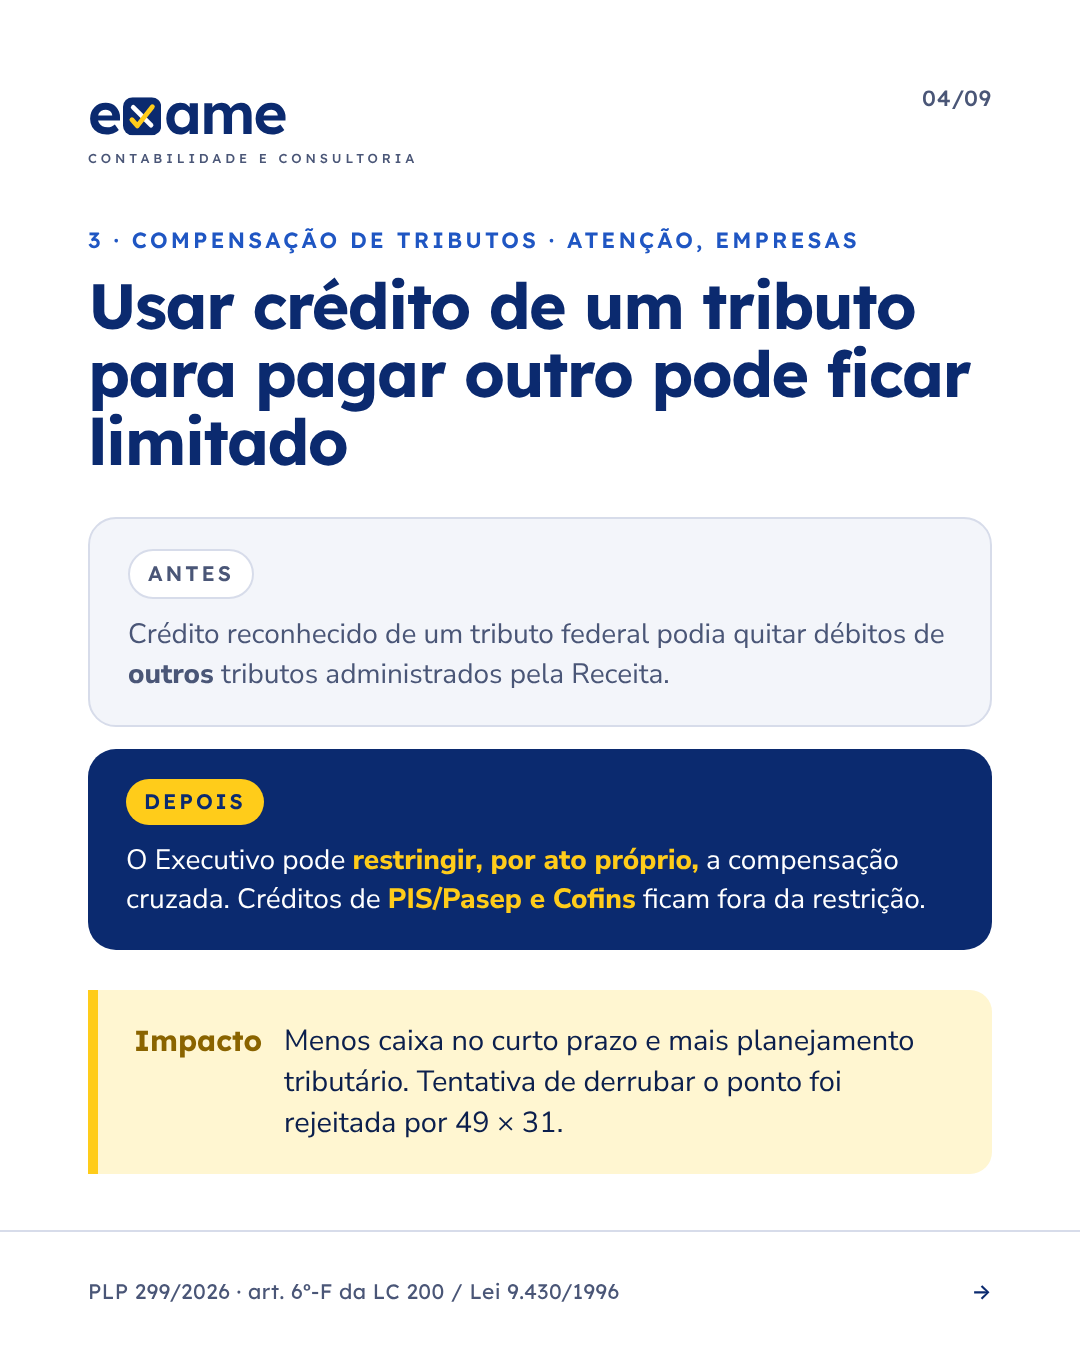
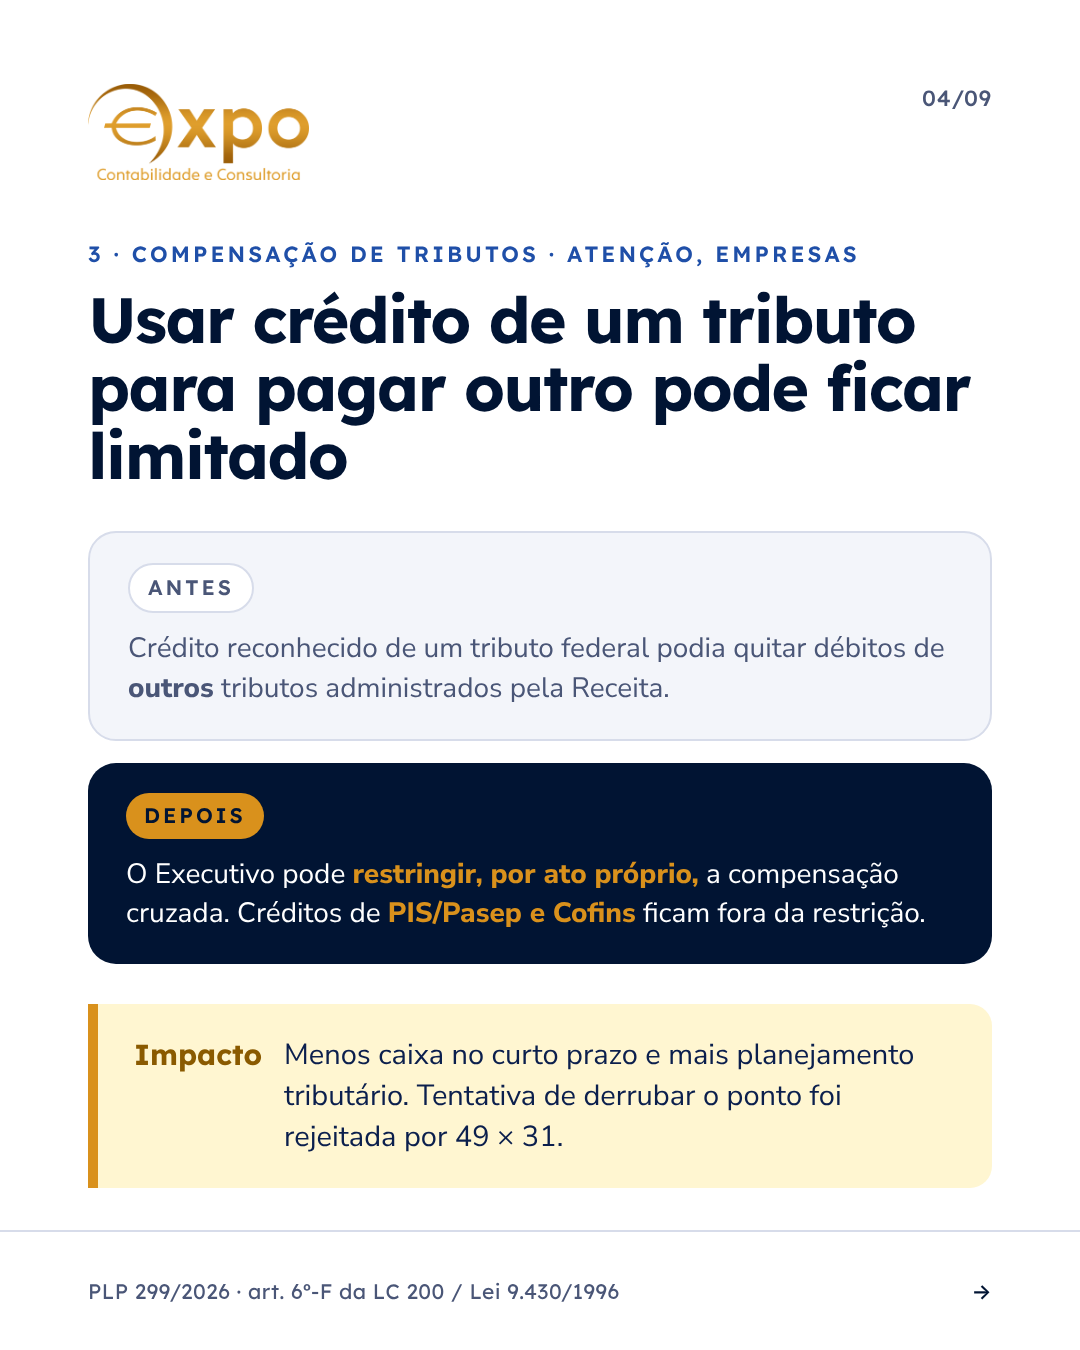
Rebrand PLP 299 carousel to Expo Contabilidade; fix brand memory
Claude-Session: https://claude.ai/code/session_018tdQqqmBqZ8MuiPkjS6HcL

Changed region(s): [[0.0611, 0.4044, 0.9167, 0.9022], [0.0611, 0.0622, 0.9167, 0.3733], [0.0611, 0.1556, 0.0917, 0.1867]]

diff --git a/posts/plp-299/carrossel.html b/posts/plp-299/carrossel.html
@@ -2,13 +2,13 @@
 <html lang="pt-BR">
 <head>
 <meta charset="utf-8">
-<title>Carrossel PLP 299</title>
+<title>Carrossel PLP 299 — Expo</title>
 <link rel="preconnect" href="https://fonts.googleapis.com">
 <link rel="stylesheet" href="https://fonts.googleapis.com/css2?family=Lexend:wght@400;500;600;700&family=Nunito+Sans:wght@400;600;700;800&display=swap">
 <style>
 :root{
   --paper:#FFFFFF; --ink:#0B1F4D; --muted:#4A5677; --line:#D7DCEA;
-  --navy:#0B2A6F; --yellow:#FFCC1A; --accent:#1F56C3; --brass:#8A6400; --cream:#FFF6D1;
+  --navy:#011433; --yellow:#D9911C; --accent:#1F4FA8; --brass:#8A5A00; --cream:#FFF6D1;
   --display:"Lexend",system-ui,sans-serif; --body:"Nunito Sans",system-ui,sans-serif;
 }
 *{box-sizing:border-box}
@@ -17,7 +17,8 @@ body{margin:0;background:#e9ecf3;font-family:var(--body);color:var(--ink)}
 .slide.dark{background:var(--navy);color:#fff}
 
 /* Logo */
-.logo{display:flex;flex-direction:column;gap:8px}
+.logo{display:flex}
+.logo img{height:96px;width:auto;display:block}
 .word{display:inline-flex;align-items:baseline;font-family:var(--display);font-weight:600;letter-spacing:-.03em;line-height:1;color:var(--navy);font-size:58px}
 .word svg{height:.66em;width:.66em;margin:0 .05em;transform:translateY(.02em)}
 .sub{font-family:var(--display);font-weight:500;font-size:13px;letter-spacing:.3em;text-transform:uppercase;color:var(--muted)}
@@ -98,12 +99,11 @@ h2{font-size:64px;color:var(--navy)}
 </head>
 <body>
 
-<template id="logo"><div class="logo"><span class="word" aria-label="exame">e<svg viewBox="0 0 56 56" aria-hidden="true"><rect width="56" height="56" rx="14" fill="#0B2A6F"/><path d="M15 15 L41 41" stroke="#FFFFFF" stroke-width="7" stroke-linecap="round"/><path d="M13 33 L21 42 L43 14" fill="none" stroke="#FFCC1A" stroke-width="7" stroke-linecap="round" stroke-linejoin="round"/></svg>ame</span><span class="sub">Contabilidade e Consultoria</span></div></template>
-<template id="logo-dark"><div class="logo"><span class="word" aria-label="exame">e<svg viewBox="0 0 56 56" aria-hidden="true"><rect width="56" height="56" rx="14" fill="#FFFFFF"/><path d="M15 15 L41 41" stroke="#0B2A6F" stroke-width="7" stroke-linecap="round"/><path d="M13 33 L21 42 L43 14" fill="none" stroke="#FFCC1A" stroke-width="7" stroke-linecap="round" stroke-linejoin="round"/></svg>ame</span><span class="sub">Contabilidade e Consultoria</span></div></template>
+<template id="logo"><div class="logo"><img src="marca/logo-expo.png" alt="Expo Contabilidade e Consultoria"></div></template>
+<template id="logo-dark"><div class="logo"><img src="marca/logo-expo.png" alt="Expo Contabilidade e Consultoria"></div></template>
 
 <!-- 1 CAPA -->
 <section class="slide dark cover">
-  <svg class="deco" viewBox="0 0 56 56"><rect width="56" height="56" rx="14" fill="#fff"/></svg>
   <div class="top"><div data-logo="dark"></div><span class="count">01/09</span></div>
   <h1>Ajuste fiscal:<br>o que muda <em>se a Câmara aprovar</em></h1>
   <p class="lead" style="font-size:34px;margin-top:34px">PLP 299/2026 — o antes e o depois, ponto a ponto, e quem sente o impacto.</p>
@@ -221,7 +221,7 @@ h2{font-size:64px;color:var(--navy)}
     <div class="step"><div class="dot">3</div><div><h3>Sanção presidencial</h3><p>Depois de aprovado nas duas Casas, vira lei complementar.</p></div></div>
   </div>
   <div class="cta"><p>Sua empresa usa <b>compensação tributária</b>? Vale revisar o planejamento antes da regulamentação.</p><span class="btn">Fale com a gente</span></div>
-  <div class="foot"><span>examecontabilidade.com.br</span><span>Fonte: Agência Senado · Conorf/Senado</span></div>
+  <div class="foot"><span>Expo Contabilidade e Consultoria</span><span>Fonte: Agência Senado · Conorf/Senado</span></div>
 </section>
 
 <script>

diff --git a/CLAUDE.md b/CLAUDE.md
@@ -1,26 +1,28 @@
-# Exame Contabilidade e Consultoria — memória do projeto
+# Expo Contabilidade e Consultoria — memória do projeto
 
 ## Marca padrão (regra fixa)
-- **Todo conteúdo, de qualquer assunto, é da marca Exame Contabilidade e Consultoria**, salvo quando o usuário avisar explicitamente que é outra marca.
-- Quando o usuário falar "Expo", "Exp", "esse por" ou algo parecido referindo-se à contabilidade, ele quer dizer **Exame** (erro de transcrição por voz).
-- Site: examecontabilidade.com.br (repositório: `index.html`).
+- **Todo conteúdo, de qualquer assunto, é da marca Expo Contabilidade e Consultoria**, salvo quando o usuário avisar explicitamente que é outra marca.
+- "Exame Contabilidade" é o nome antigo (ainda no `index.html` do `main` e no domínio `examecontabilidade.com.br`). Não usar a identidade antiga da Exame (azul `#0B2A6F`, amarelo `#FFCC1A`, logo "e✓ame").
+- A transcrição por voz do usuário costuma trocar "Expo" por "esse por", "ESP", "Exp" etc.
+- E-mails do escritório usam o domínio `@expocontabilidade.com.br`.
 
-## Identidade visual
+## Identidade visual (fonte: `config/marca.json` nos branches `claude/serene-dijkstra-9u3a4v` e `claude/eager-ramanujan-kn0fle`)
 - Cores:
-  - Azul-marinho (principal): `#0B2A6F`
-  - Amarelo (destaque): `#FFCC1A`
-  - Azul de apoio: `#1F56C3`
-  - Texto escuro: `#0B1F4D` · texto secundário: `#4A5677`
-  - Linhas/bordas: `#D7DCEA` · creme (fundo de destaque): `#FFF6D1` · dourado escuro (rótulos sobre creme): `#8A6400`
-  - Fundo: `#FFFFFF`
+  - Primária (azul-marinho): `#011433`
+  - Primária clara (azul): `#1F4FA8`
+  - Destaque (dourado): `#D9911C` · dourado para texto sobre branco: `#8A5A00`
+  - Texto escuro: `#0B1F4D` · texto secundário: `#4A5677` · bordas: `#D7DCEA` / `#D8DEEA`
+  - Fundo de aviso (creme): `#FFF6D1` · fundo: `#FFFFFF` (ou `#F4F6FA`)
 - Fontes: **Lexend** (títulos) e **Nunito Sans** (texto) — Google Fonts.
-- Logo: palavra "e✓ame" — "e" + quadrado arredondado azul-marinho com traço branco e check amarelo (formando o "x") + "ame", em Lexend 600 azul-marinho; abaixo, "CONTABILIDADE E CONSULTORIA" em caixa alta espaçada. O SVG do símbolo está em `index.html`. Em fundo escuro: palavra em branco, quadrado branco com traço azul-marinho e check amarelo.
+- Logo: `marca/logo-expo.png` (940×409, dourado em degradê, fundo transparente — "€xpo" com arco e "Contabilidade e Consultoria" embaixo). Funciona sobre branco e sobre o azul-marinho.
+- Ícone: `marca/icone-expo.png` (256×256, arco dourado sobre quadrado azul-marinho arredondado).
+- Cópias do logo e do ícone em `posts/plp-299/marca/`.
 
 ## Posts
-- Modelo pronto: `posts/plp-299/carrossel.html` (carrossel Instagram 1080×1350, layout antes/depois/impacto, logo em todos os slides, rodapé com fonte e `examecontabilidade.com.br`, CTA "Fale com a gente"). Reutilizar como base para novos posts.
+- Modelo pronto: `posts/plp-299/carrossel.html` (carrossel Instagram 1080×1350, layout antes/depois/impacto, logo Expo em todos os slides, rodapé com fonte, CTA "Fale com a gente"). Reutilizar como base para novos posts.
 - Renderização: abrir o HTML no Playwright e tirar screenshot de cada `.slide`.
 - O usuário ainda **não usa o Typefully**; entregar as imagens diretamente na conversa.
 - Idioma: português do Brasil. Citar fontes oficiais (Agência Senado, Consultoria do Senado, Receita etc.).
 
 ## Histórico
-- 19/11/2026: resumo da votação do PLP 299/2026 (ajuste fiscal) no Senado e carrossel "o que muda se a Câmara aprovar" em `posts/plp-299/`.
+- 19/11/2026: resumo da votação do PLP 299/2026 (ajuste fiscal) no Senado e carrossel "o que muda se a Câmara aprovar" em `posts/plp-299/` (refeito na marca Expo).
